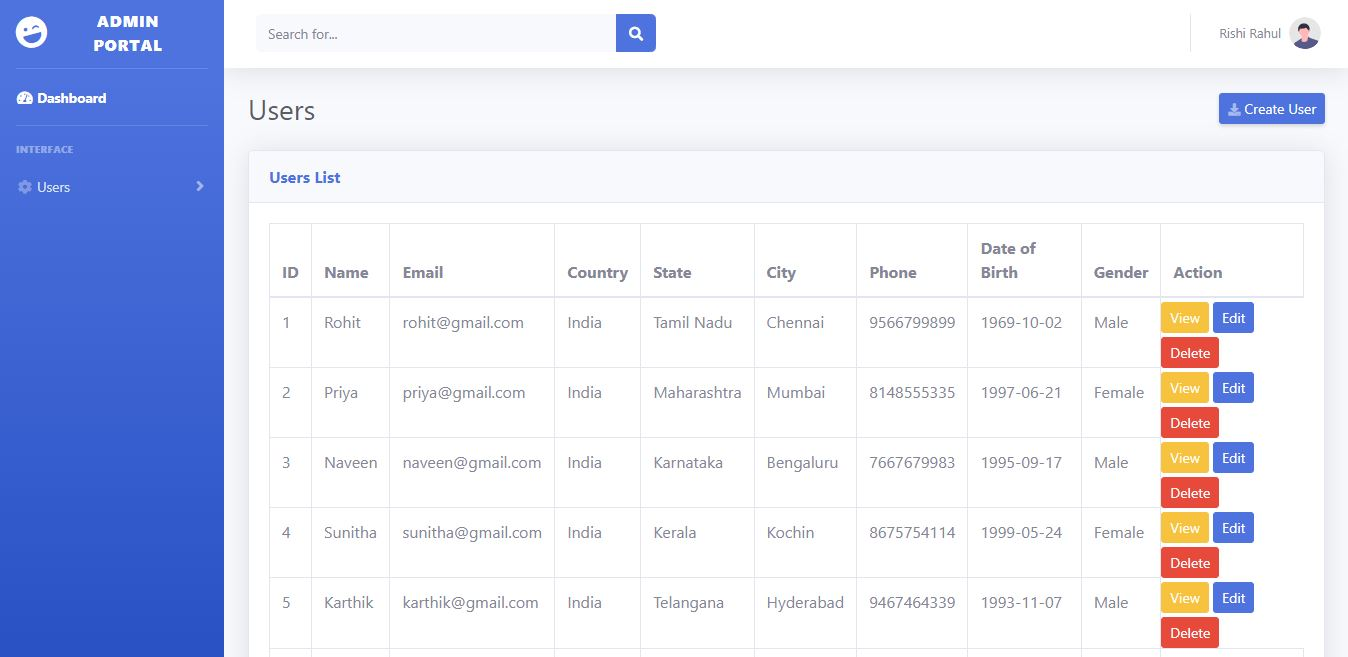
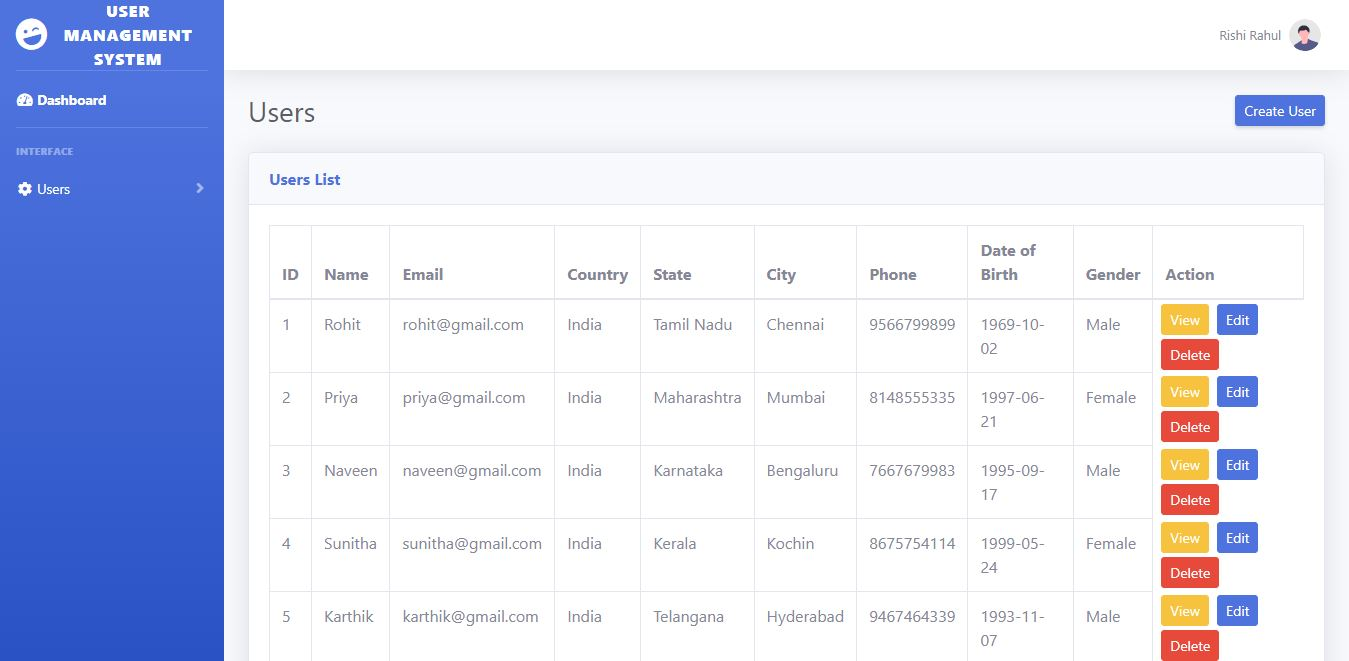
added VCS & maps route projects

diff --git a/index.html b/index.html
@@ -58,7 +58,7 @@
           and help in fulfilling their queries and requirements. With this experience, 
           I can understand the requirements of the client and bring it live in the project effectively.
         </p>
-        <a href="https://drive.google.com/file/d/1d_ywALl2CrmwXv3aKzeOJW2JJz-ZRFUr/view?usp=sharing" target="_blank" class="btn">Resume</a>
+        <a href="https://drive.google.com/file/d/1GcWaVh25IwPfFy-kmYij0I4R0MbU59N1/view?usp=sharing" target="_blank" class="btn">Resume</a>
       </div>
     </section>
 
@@ -94,7 +94,16 @@
       <p class="projects-subtitle">Here you can find some of the projects that I created</p>
       <div class="projects-container">
         <div class="project-container project-card">
-          <img src="./images/money_manager.JPG" alt="expense-tracker" loading="lazy" class="project-pic" />
+          <img src="./images/version_control_system.JPG" alt="Version Control System webpage image" loading="lazy" class="project-pic" />
+          <h3 class="project-title">Version Control System</h3>
+          <p class="project-details">
+            It is a "GitHub for Writers" where users can write, commit their progress, and toggle between multiple drafts.
+          </p>
+          <a href="https://version-control-system.netlify.app" target="_blank" class="project-link">See Live</a>
+          <a href="https://github.com/rishirahuln/version-control-system-backend" target="_blank" class="project-link">GitHub Repo</a>
+        </div>
+        <div class="project-container project-card">
+          <img src="./images/money_manager.JPG" alt="Money Manager webpage image" loading="lazy" class="project-pic" />
           <h3 class="project-title">Money Manager</h3>
           <p class="project-details">
             Users can record their personal and business financial transactions, and review and manage their assets.
@@ -102,34 +111,26 @@
           <a href="https://money-manager2.netlify.app" target="_blank" class="project-link">See Live</a>
           <a href="https://github.com/rishirahuln/money-manager-backend" target="_blank" class="project-link">GitHub Repo</a>
         </div>
+        
+      </div>
+      <div class="projects-container">
         <div class="project-container project-card">
-          <img src="./images/user_management.JPG" alt="netflic-clone" loading="lazy" class="project-pic" />
+          <img src="./images/user_management.JPG" alt="User Management System webpage image" loading="lazy" class="project-pic" />
           <h3 class="project-title">User Management System</h3>
           <p class="project-details">
             A web application developed for user management where CRUD operations can be made.
           </p>
-          <a href="https://adminportal1.netlify.app" target="_blank" class="project-link">See Live</a>
+          <a href="https://user-management-appl.netlify.app" target="_blank" class="project-link">See Live</a>
           <a href="https://github.com/rishirahuln/adminportal" target="_blank" class="project-link">GitHub Repo</a>
         </div>
-      </div>
-      <div class="projects-container">
         <div class="project-container project-card">
-          <img src="./images/E-Commerce.JPG" alt="expense-tracker" loading="lazy" class="project-pic" />
-          <h3 class="project-title">E-Commerce Site UI</h3>
+          <img src="./images/google_maps_route.JPG" alt="Maps Route and Distance Calculator webpage image" loading="lazy" class="project-pic" />
+          <h3 class="project-title">Maps Route and Distance Calculator</h3>
           <p class="project-details">
-            An E-Commerce platform UI where the customers can view the products, add them to the cart, and remove them.
+            Enables users to input the origin and destination places to get the best route with travel distance and duration.
           </p>
-          <a href="https://aesthetic-boba-682f87.netlify.app" target="_blank" class="project-link">See Live</a>
-          <a href="https://github.com/rishirahuln/GUVI-B39WD2Tamil-Day24Task" target="_blank" class="project-link">GitHub Repo</a>
-        </div>
-        <div class="project-container project-card">
-          <img src="./images/countries_data.jpg" alt="netflic-clone" loading="lazy" class="project-pic" />
-          <h3 class="project-title">Countries with Weather Information</h3>
-          <p class="project-details">
-            All the countries' details are presented and their current weather information can be viewed in one click.
-          </p>
-          <a href="https://musical-licorice-d316df.netlify.app/" target="_blank" class="project-link">See Live</a>
-          <a href="https://github.com/rishirahuln/GUVI-B39WD2Tamil-Day18Task" target="_blank" class="project-link">GitHub Repo</a>
+          <a href="https://google-maps-route.netlify.app" target="_blank" class="project-link">See Live</a>
+          <a href="https://github.com/rishirahuln/google-maps-distance" target="_blank" class="project-link">GitHub Repo</a>
         </div>
       </div>
     </section>
